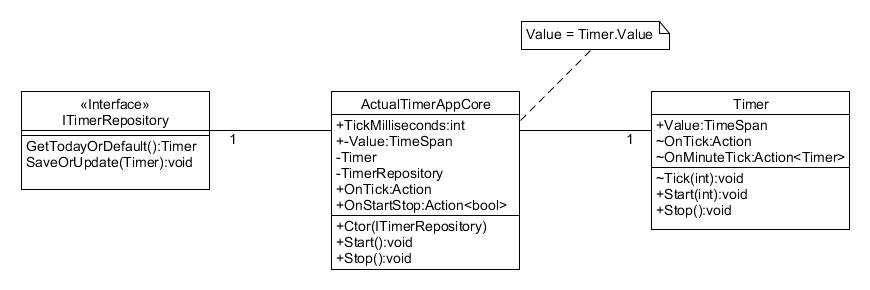
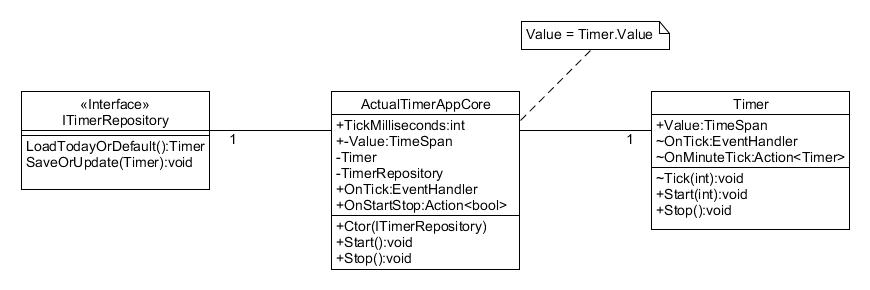
Code Ananlisys refactoring

Changed region(s): [[0.031, 0.4655, 0.2483, 0.5276], [0.4345, 0.6207, 0.5586, 0.6828], [0.8069, 0.4655, 0.931, 0.5276]]

diff --git a/src/ActualTimerSolution/Tests/DomainTests/ActualTimerAppCoreTests.cs b/src/ActualTimerSolution/Tests/DomainTests/ActualTimerAppCoreTests.cs
@@ -17,7 +17,7 @@ namespace DomainTests
 		{
 			var timer = new Timer();
 			var timerRepository = Substitute.For<ITimerRepository>();
-			timerRepository.GetTodayOrDefault().Returns(timer);
+			timerRepository.LoadTodayOrDefault().Returns(timer);
 
 			ActualTimerAppCore core = new ActualTimerAppCore(timerRepository);
 
@@ -43,7 +43,7 @@ namespace DomainTests
 		public void CtorGetTodayTimer()
 		{
 			var timerRepository = Substitute.For<ITimerRepository>();
-			timerRepository.GetTodayOrDefault()
+			timerRepository.LoadTodayOrDefault()
 				.Returns(new Timer {Value = new TimeSpan(50)});
 
 			ActualTimerAppCore core = new ActualTimerAppCore(timerRepository);
@@ -57,7 +57,7 @@ namespace DomainTests
 			NullReturnNotAllowedException ex = Assert.Throws<NullReturnNotAllowedException>(delegate
 			{
 				var timerRepository = Substitute.For<ITimerRepository>();
-				timerRepository.GetTodayOrDefault()
+				timerRepository.LoadTodayOrDefault()
 					.ReturnsNull();
 
 				// ReSharper disable once ObjectCreationAsStatement
@@ -71,7 +71,7 @@ namespace DomainTests
 		public void StartTest()
 		{
 			var timerRepository = Substitute.For<ITimerRepository>();
-			timerRepository.GetTodayOrDefault().Returns(new Timer());
+			timerRepository.LoadTodayOrDefault().Returns(new Timer());
 			ActualTimerAppCore core = new ActualTimerAppCore(timerRepository)
 			{
 				TickMilliseconds = 100
@@ -88,7 +88,7 @@ namespace DomainTests
 		public void ChangeTickMilliseconds()
 		{
 			var timerRepository = Substitute.For<ITimerRepository>();
-			timerRepository.GetTodayOrDefault().Returns(new Timer());
+			timerRepository.LoadTodayOrDefault().Returns(new Timer());
 			ActualTimerAppCore core = new ActualTimerAppCore(timerRepository)
 			{
 				TickMilliseconds = 100
@@ -111,12 +111,12 @@ namespace DomainTests
 		{
 			int counter = 0;
 			var timerRepository = Substitute.For<ITimerRepository>();
-			timerRepository.GetTodayOrDefault().Returns(new Timer());
+			timerRepository.LoadTodayOrDefault().Returns(new Timer());
 			ActualTimerAppCore core = new ActualTimerAppCore(timerRepository)
 			{
 				TickMilliseconds = 100
 			};
-			core.OnTick += () => { counter++; };
+			core.OnTick += (sender, args) => { counter++; };
 
 			core.Start();
 			Thread.Sleep(350);
@@ -131,13 +131,13 @@ namespace DomainTests
 		{
 			bool? startStop = null;
 			var timerRepository = Substitute.For<ITimerRepository>();
-			timerRepository.GetTodayOrDefault().Returns(new Timer());
+			timerRepository.LoadTodayOrDefault().Returns(new Timer());
 			ActualTimerAppCore core = new ActualTimerAppCore(timerRepository)
 			{
 				TickMilliseconds = 100
 			};
 
-			core.OnStartStop += b => { startStop = b; };
+			core.OnStartStop += (sender, b) => { startStop = b; };
 			core.Start();
 			Assert.AreEqual(true, startStop);
 			core.Stop();
@@ -152,7 +152,7 @@ namespace DomainTests
 				Value = new TimeSpan(0, 0, 0, 59, 810)
 			};
 			var timerRepository = Substitute.For<ITimerRepository>();
-			timerRepository.GetTodayOrDefault().Returns(timer);
+			timerRepository.LoadTodayOrDefault().Returns(timer);
 			ActualTimerAppCore core = new ActualTimerAppCore(timerRepository)
 			{
 				TickMilliseconds = 100

diff --git a/src/ActualTimerSolution/Domain/ActualTimerAppCore.cs b/src/ActualTimerSolution/Domain/ActualTimerAppCore.cs
@@ -15,7 +15,7 @@ namespace Kobsky.ActualTimer
 		/// <summary xml:lang="ru">
 		/// Время в миллисекундах, определяющие интервал срабатывания таймера
 		/// </summary>
-		public int TickMilliseconds = 200;
+		public int TickMilliseconds { get; set; } = 200;
 
 		/// <summary>to do</summary>
 		/// <summary xml:lang="ru">
@@ -27,13 +27,13 @@ namespace Kobsky.ActualTimer
 		/// <summary xml:lang="ru">
 		/// Событие генерирущееся при каждом изменении таймера
 		/// </summary>
-		public event Action OnTick;
+		public event EventHandler OnTick;
 
 		/// <summary>to do</summary>
 		/// <summary xml:lang="ru">
 		/// Событие генерирущиееся при каждом запуске и остановке таймера
 		/// </summary>
-		public event Action<bool> OnStartStop;
+		public event EventHandler<bool> OnStartStop;
 
 		/// <summary>Ctor</summary>
 		/// <summary xml:lang="ru">
@@ -58,7 +58,7 @@ namespace Kobsky.ActualTimer
 
 			TimerRepository = timerRepository;
 
-			var tempTimer = timerRepository.GetTodayOrDefault();
+			var tempTimer = timerRepository.LoadTodayOrDefault();
 			if (null == tempTimer)
 				throw new NullReturnNotAllowedException("ITimerRepository.GetTodayOrDefault method return null");
 			Timer = tempTimer;
@@ -71,10 +71,10 @@ namespace Kobsky.ActualTimer
 		/// </summary>
 		public void Start()
 		{
-			if (OnTick != null) Timer.OnTick += OnTick.Invoke;
-			Timer.OnMinuteTick += TimerRepository.SaveOrUpdate;
+			if (OnTick != null) Timer.OnTick += OnTick;
+			Timer.OnMinuteTick += (sender, timer) => { TimerRepository.SaveOrUpdate(timer); };
 			Timer.Start(TickMilliseconds);
-			OnStartStop?.Invoke(true);
+			OnStartStop?.Invoke(this,true);
 		}
 
 		/// <summary>to do </summary>
@@ -84,7 +84,7 @@ namespace Kobsky.ActualTimer
 		public void Stop()
 		{
 			Timer.Stop();
-			OnStartStop?.Invoke(false);
+			OnStartStop?.Invoke(this,false);
 		}
 	}
 }

diff --git a/src/ActualTimerSolution/Domain/Timer.cs b/src/ActualTimerSolution/Domain/Timer.cs
@@ -6,25 +6,25 @@ namespace Kobsky.ActualTimer
 	/// <summary xml:lang="ru">
 	/// Таймер который использует <see cref="ActualTimerAppCore"/>
 	/// </summary>
-	public sealed class Timer
+	public sealed class Timer:IDisposable
 	{
 		/// <summary>to do </summary>
 		/// <summary xml:lang="ru">
 		/// Текущее значение таймера
 		/// </summary>
-		public TimeSpan Value;
+		public TimeSpan Value { get; set; }
 
 		/// <summary>to do </summary>
 		/// <summary xml:lang="ru">
 		/// Событие которое генерируется при каждом тике таймера
 		/// </summary>
-		internal Action OnTick;
+		internal EventHandler OnTick;
 
 		/// <summary>to do </summary>
 		/// <summary xml:lang="ru">
 		/// Событие которое генериуется при приросте таймера на минуту
 		/// </summary>
-		internal Action<Timer> OnMinuteTick;
+		internal EventHandler<Timer> OnMinuteTick;
 
 		/// <summary>to do </summary>
 		/// <summary xml:lang="ru">
@@ -53,10 +53,10 @@ namespace Kobsky.ActualTimer
 			_previous = Value;
 			Value = Value.Add(new TimeSpan(0,0,0,0,milliseconds));
 
-			OnTick?.Invoke();
+			OnTick?.Invoke(this, null);
 
 			if(Value.Minutes > _previous.Minutes)
-				OnMinuteTick?.Invoke(this);
+				OnMinuteTick?.Invoke(this,this);
 		}
 
 		/// <summary>to do </summary>
@@ -81,6 +81,16 @@ namespace Kobsky.ActualTimer
 		public void Stop()
 		{
 			_timer?.Dispose();
+		}
+
+		/// <summary>to do </summary>
+		/// <summary xml:lang="ru">
+		/// Так как класс за кулисами использует <see cref="System.Threading.Timer"/> то необходимо реализовать <c>Dispose</c>
+		/// </summary>
+		public void Dispose()
+		{
+			// ReSharper disable once UseNullPropagation
+			if (_timer != null) _timer.Dispose();
 		}
 	}
 }

diff --git a/src/ActualTimerSolution/Tests/DomainTests/TimerTests.cs b/src/ActualTimerSolution/Tests/DomainTests/TimerTests.cs
@@ -31,15 +31,11 @@ namespace DomainTests
 		public void TickTest()
 		{
 			Timer timer = new Timer();
-			timer.OnTick += Coutn;
+			timer.OnTick += (sender, args) => { _counter++; };
 			timer.Tick(100);
 
 			Assert.AreEqual(1, _counter);
 			Assert.AreEqual(new TimeSpan(0,0,0,0,100), timer.Value );
-		}
-		private void Coutn()
-		{
-			_counter++;
 		}
 
 		[Test]
@@ -49,7 +45,7 @@ namespace DomainTests
 			{
 				Value = new TimeSpan(0, 0, 0, 59, 0)
 			};
-			timer.OnMinuteTick += OnMinuteTick;
+			timer.OnMinuteTick += (sender, timer1) => { _counter++; };
 
 			timer.Tick(1000);
 			timer.Tick(1000);
@@ -57,11 +53,6 @@ namespace DomainTests
 
 			Assert.AreEqual(1, _counter);
 			Assert.AreEqual(new TimeSpan(0, 0, 1, 2, 0), timer.Value);
-		}
-
-		private void OnMinuteTick(Timer timer)
-		{
-			Coutn();
 		}
 
 		[Test]
@@ -77,12 +68,16 @@ namespace DomainTests
 
 			Assert.IsTrue(3 < _counter);
 		}
+		private void Coutn(object sender, EventArgs eventArgs)
+		{
+			_counter++;
+		}
 
 		[Test]
 		public void StopTest()
 		{
 			Timer timer = new Timer();
-			timer.OnTick += Coutn;
+			timer.OnTick += (sender, args) => { _counter++; };
 
 			timer.Start(10);
 			Thread.Sleep(100);
@@ -99,6 +94,16 @@ namespace DomainTests
 			Timer timer = new Timer();
 
 			Assert.DoesNotThrow(() => { timer.Stop(); });
+		}
+
+		[Test]
+		public void DisposableTest()
+		{
+			IDisposable timer = new Timer();
+
+			timer.Dispose();
+
+			Assert.IsNotNull(timer);
 		}
 	}
 }

diff --git a/src/ActualTimerSolution/Domain/NullNotAllowedException.cs b/src/ActualTimerSolution/Domain/NullNotAllowedException.cs
@@ -1,4 +1,5 @@
 using System;
+using System.Runtime.Serialization;
 
 namespace Kobsky.ActualTimer
 {
@@ -8,9 +9,19 @@ namespace Kobsky.ActualTimer
 	/// <summary xml:lang="ru">
 	/// Возбуждается при создании экземпляра ActualTimerAppCore если ITimerRepository.GetTodayOrDefault возвращает null значение
 	/// </summary>
+	[Serializable]
 	public class NullReturnNotAllowedException : Exception
 	{
+		public NullReturnNotAllowedException()
+		{}
+
 		public NullReturnNotAllowedException(string message) : base(message)
 		{}
+
+		public NullReturnNotAllowedException(string message, Exception ex): base(message, ex)
+		{ }
+
+		protected NullReturnNotAllowedException(SerializationInfo info, StreamingContext context): base(info, context)
+		{ }
 	}
 }

diff --git a/src/ActualTimerSolution/Domain/ITimerRepository.cs b/src/ActualTimerSolution/Domain/ITimerRepository.cs
@@ -9,7 +9,7 @@
 		/// Загружает таймер, который был сохранен сегодня, если сохраненных данных нету, то создает новый таймер
 		/// </summary>
 		/// <returns><see cref="Timer"/></returns>
-		Timer GetTodayOrDefault();
+		Timer LoadTodayOrDefault();
 
 		/// <summary>to do</summary>
 		/// <summary xml:lang="ru">

diff --git a/src/ActualTimerSolution/Domain/Properties/AssemblyInfo.cs b/src/ActualTimerSolution/Domain/Properties/AssemblyInfo.cs
@@ -1,4 +1,5 @@
-using System.Reflection;
+using System;
+using System.Reflection;
 using System.Runtime.CompilerServices;
 using System.Runtime.InteropServices;
 
@@ -36,3 +37,4 @@ using System.Runtime.InteropServices;
 [assembly: AssemblyFileVersion("1.0.0.0")]
 
 [assembly:InternalsVisibleTo("DomainTests")]
+[assembly:CLSCompliant(true)]
